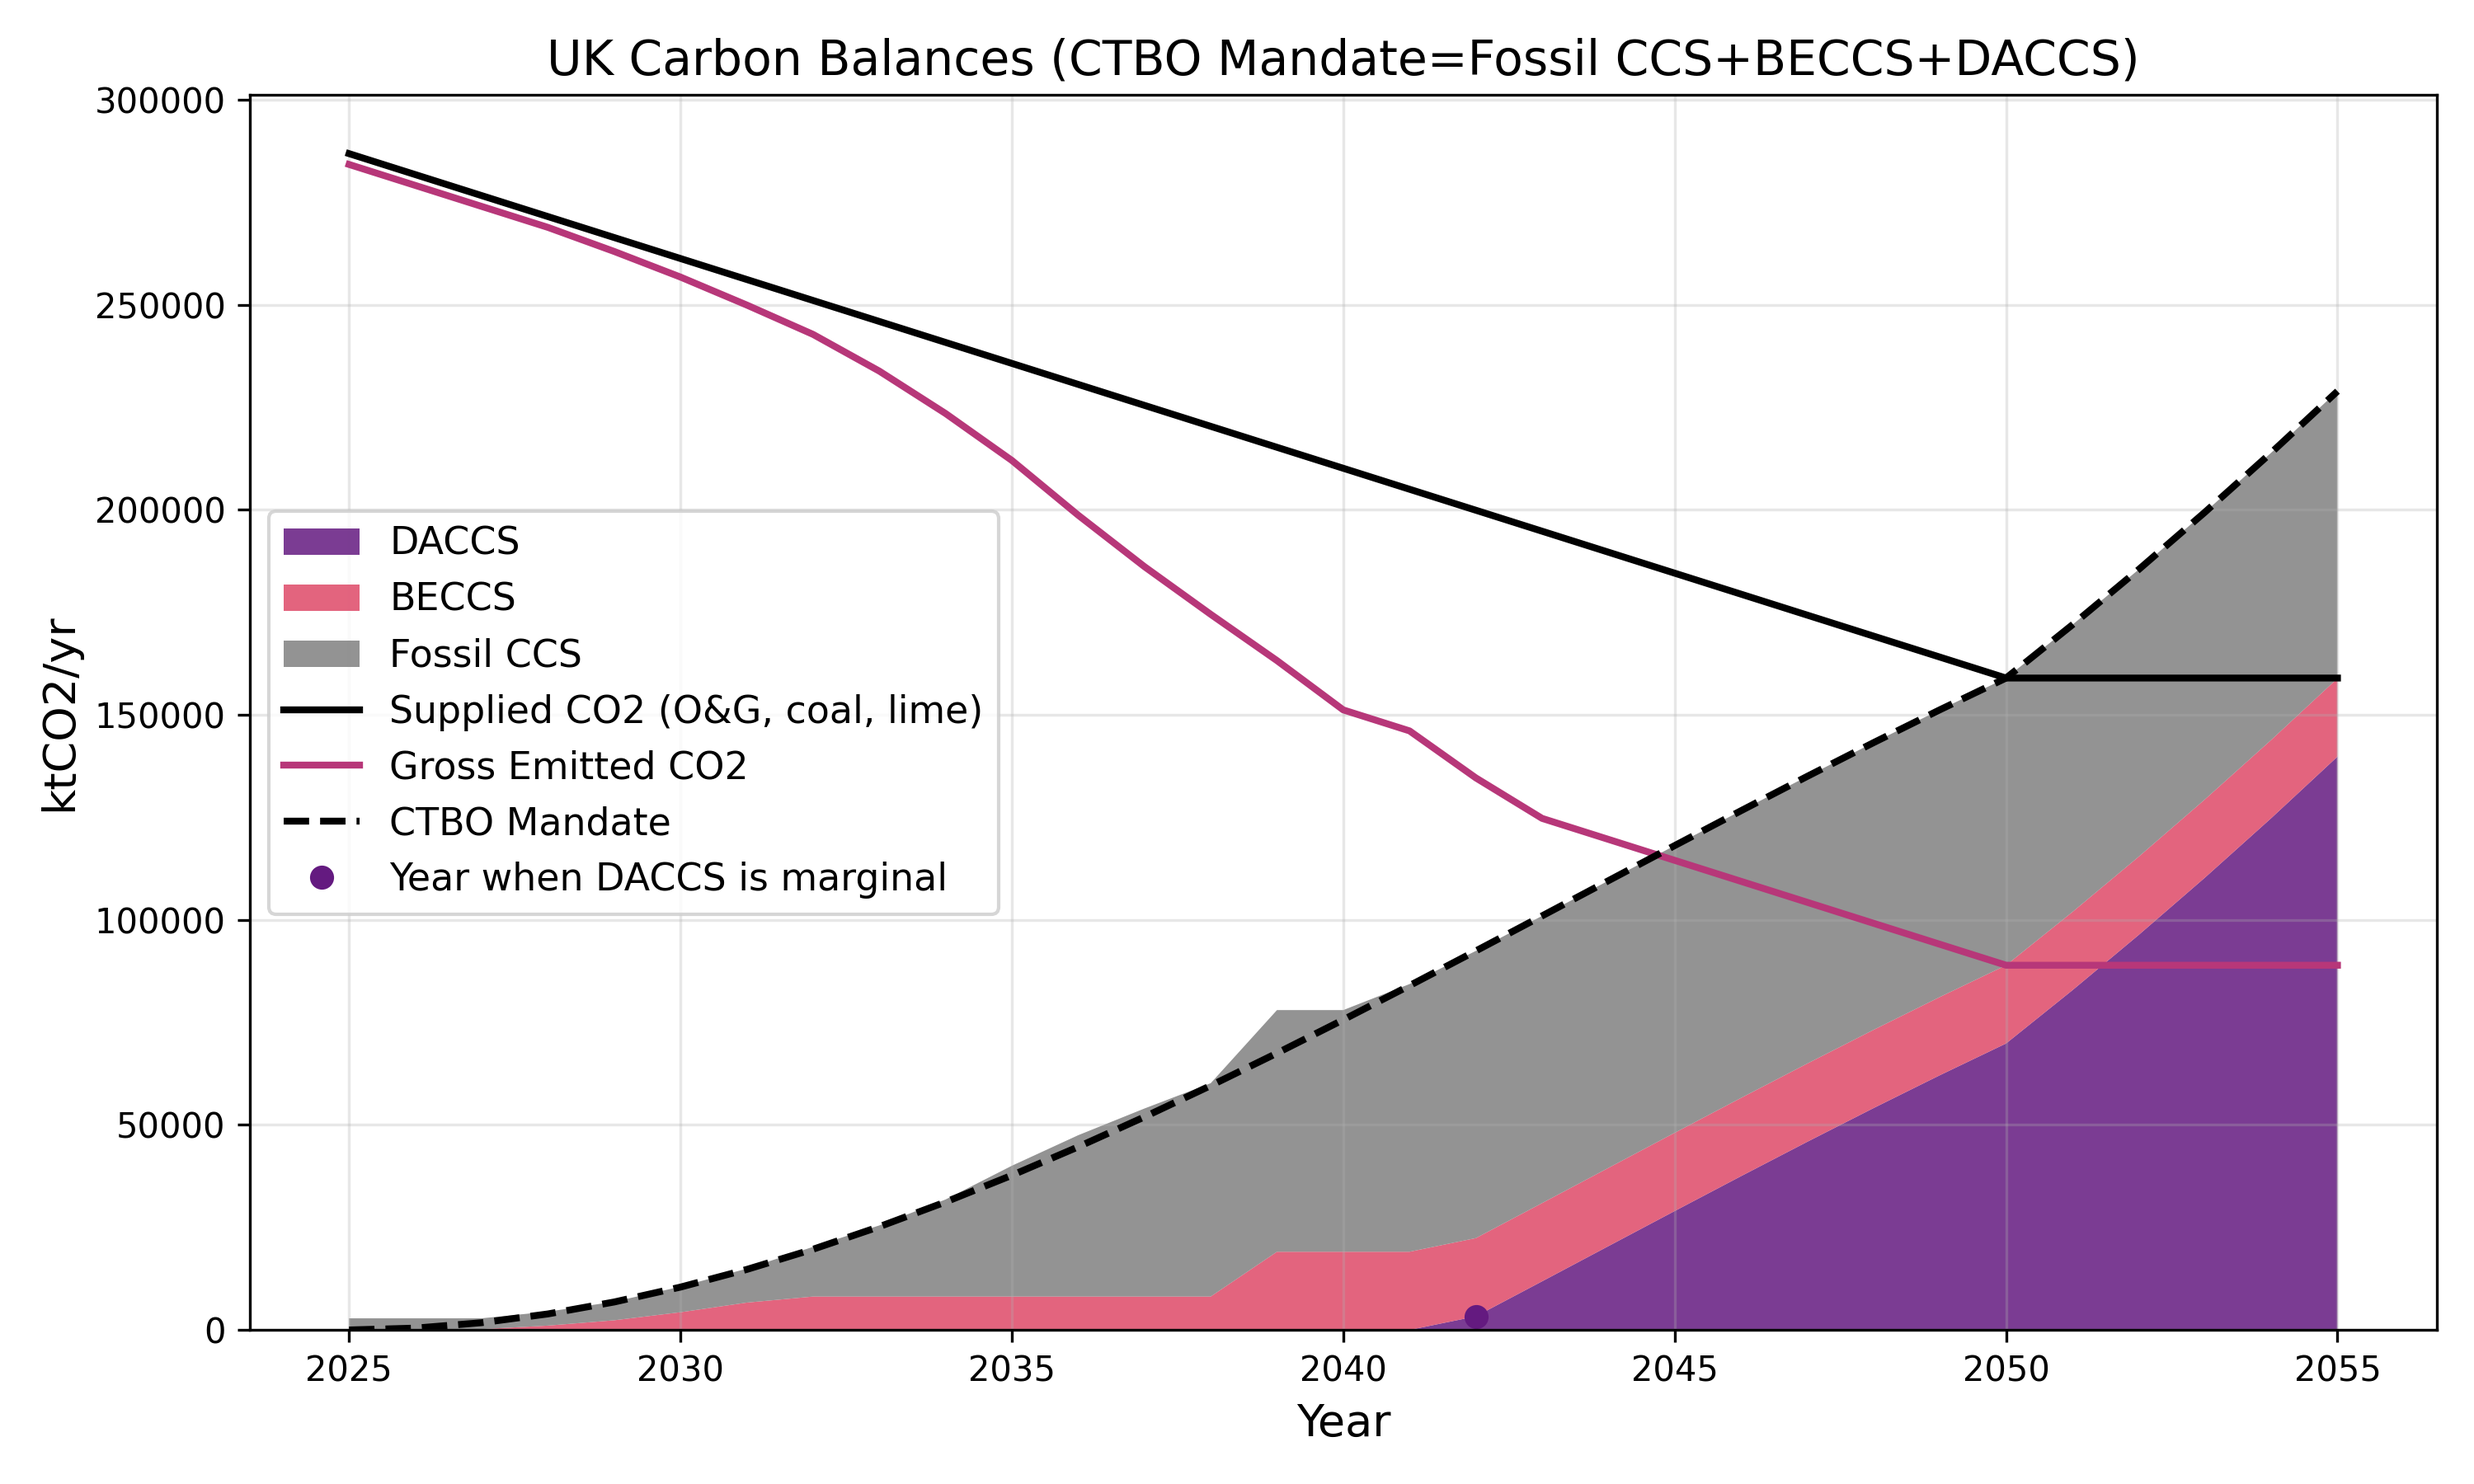
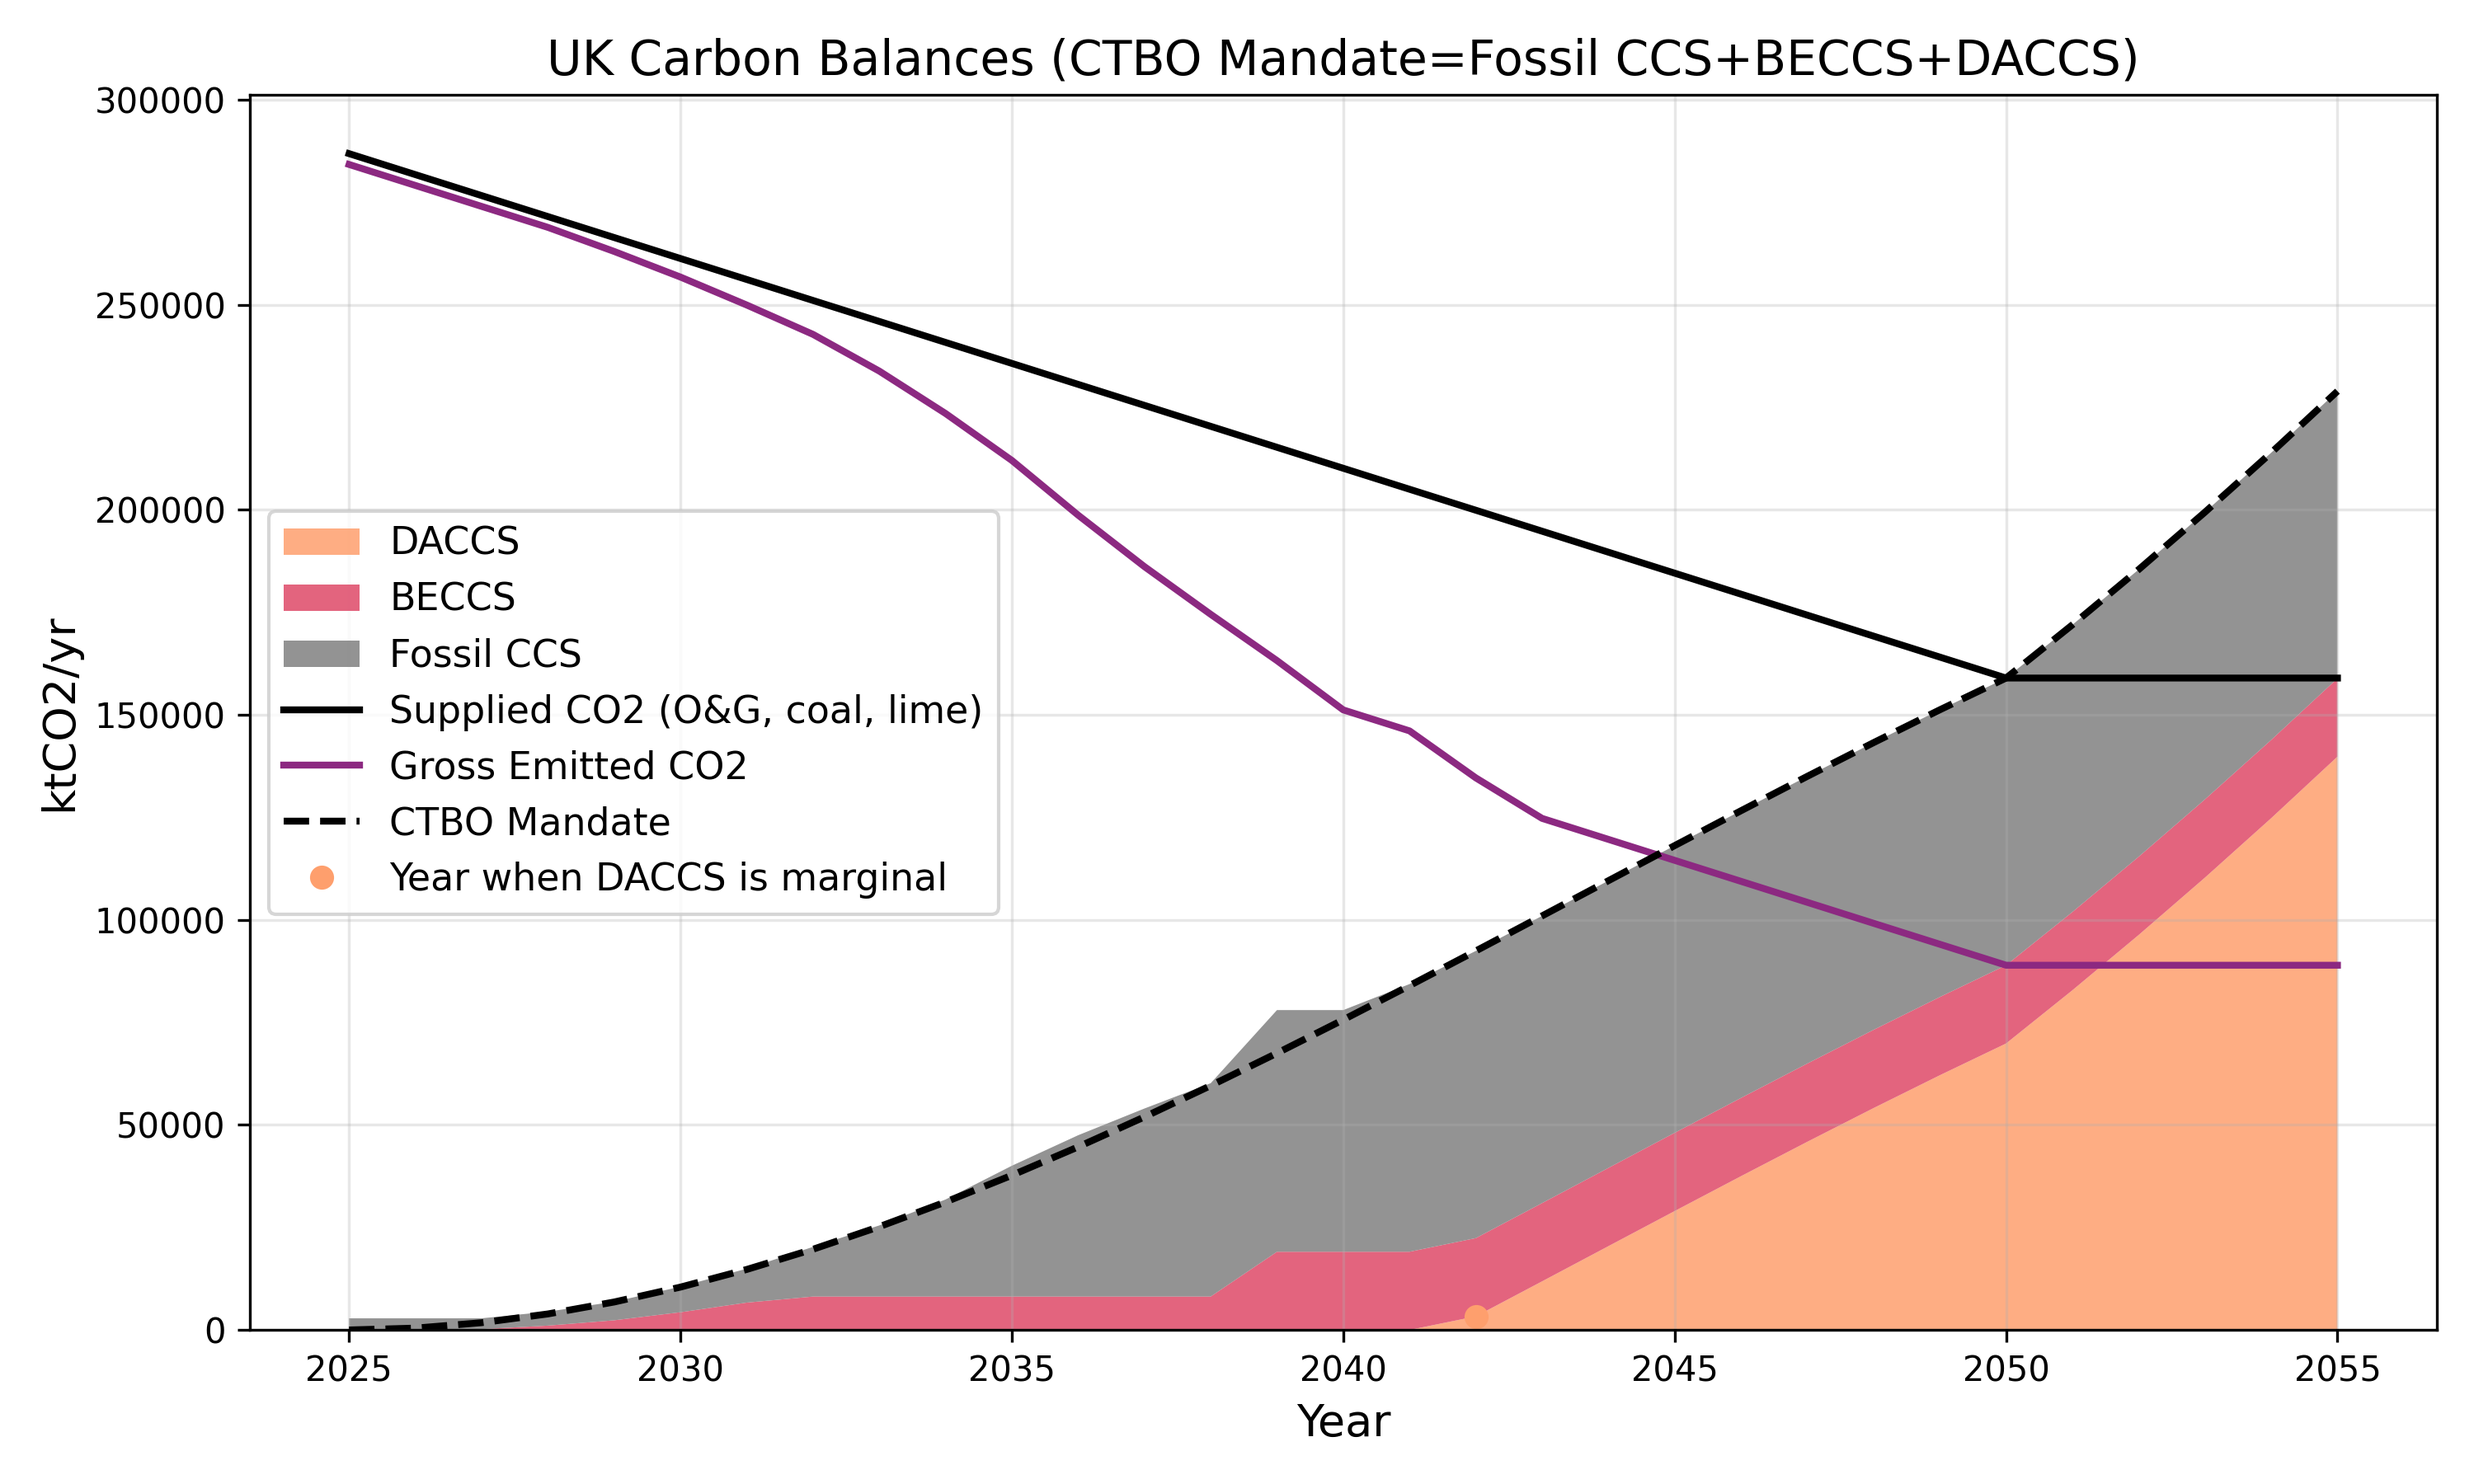
Plotting CB

diff --git a/plot_results.py b/plot_results.py
@@ -25,6 +25,9 @@ def load_results(debug=False):
         "BECCS_capacity_vec",
         "DACCS_capacity_vec",
         "CTBO_cost_lev_vec",
+        "supplied_CO2_vec",
+        "total_emissions_vec",
+        "ctbo_mandate_vec",
         "plant_npv_net",
         "plant_npv_gross",
         "plant_investment_year",
@@ -98,6 +101,52 @@ def plot_timeseries_by_scenario(combined_df, array_data, scenario_col="ETS_SCENA
     plt.ylabel(ylabel or 'Value', fontsize=13)
     plt.title(title or 'Time Series by ETS Scenario', fontsize=14)
     plt.legend(fontsize=11, title='ETS Scenario')
+    plt.grid(True, alpha=0.3)
+    plt.tight_layout()
+
+
+def plot_carbon_balance(combined_df, array_outcomes, start_year=2025, debug=False):
+    """Plot carbon balance time series (supplied, emissions, mandate) with uncertainty bands."""
+    if debug:
+        print("Plotting carbon balance")
+    
+    supplied = array_outcomes.get("supplied_CO2_vec")
+    emissions = array_outcomes.get("total_emissions_vec")
+    mandate = array_outcomes.get("ctbo_mandate_vec")
+    
+    if supplied is None or emissions is None or mandate is None:
+        print("Warning: Missing carbon balance data (supplied_CO2_vec, total_emissions_vec, ctbo_mandate_vec)")
+        return
+    
+    years = np.arange(start_year, start_year + supplied.shape[1])
+    
+    plt.figure(figsize=(10, 6))
+    
+    # Supplied CO2
+    median_sup = np.percentile(supplied, 50, axis=0)
+    p5_sup = np.percentile(supplied, 5, axis=0)
+    p95_sup = np.percentile(supplied, 95, axis=0)
+    plt.plot(years, median_sup, label='Supplied CO2', linewidth=2, color='black', linestyle='-')
+    plt.fill_between(years, p5_sup, p95_sup, alpha=0.15, color='black')
+    
+    # Total emissions
+    median_em = np.percentile(emissions, 50, axis=0)
+    p5_em = np.percentile(emissions, 5, axis=0)
+    p95_em = np.percentile(emissions, 95, axis=0)
+    plt.plot(years, median_em, label='Emissions', linewidth=2, color='#e74c3c', linestyle='--')
+    plt.fill_between(years, p5_em, p95_em, alpha=0.15, color='#e74c3c')
+    
+    # CTBO mandate
+    median_man = np.percentile(mandate, 50, axis=0)
+    p5_man = np.percentile(mandate, 5, axis=0)
+    p95_man = np.percentile(mandate, 95, axis=0)
+    plt.plot(years, median_man, label='CTBO Mandate', linewidth=2, color='#3498db', linestyle=':')
+    plt.fill_between(years, p5_man, p95_man, alpha=0.15, color='#3498db')
+    
+    plt.xlabel('Year', fontsize=13)
+    plt.ylabel('ktCO2/yr', fontsize=13)
+    plt.title('Carbon Balance: Supplied CO2, Emissions, and CTBO Mandate', fontsize=14)
+    plt.legend(fontsize=11)
     plt.grid(True, alpha=0.3)
     plt.tight_layout()
 
@@ -465,6 +514,9 @@ if __name__ == "__main__":
     
     # Plot 10: Fraction of positive NPV - fossil plants only
     plot_positive_npv_fraction_boxplot(combined_df, array_outcomes, plant_names, plant_filter="fossil", ETS_filter=None)
+    
+    # Plot 11: Carbon balance (supplied, emissions, mandate)
+    plot_carbon_balance(combined_df, array_outcomes)
     
     plt.show()
 

diff --git a/controller.py b/controller.py
@@ -1,4 +1,5 @@
 import numpy as np
+from numpy._core.numeric import False_
 import pandas as pd
 from ctbo_multiple import simulate_ctbo, load_data
 from ema_workbench import (
@@ -70,9 +71,9 @@ if __name__ == "__main__":
         ScalarOutcome("gas_increase_abs_2040", ScalarOutcome.MINIMIZE),
         ScalarOutcome("gas_increase_abs_2050", ScalarOutcome.MINIMIZE),
         ArrayOutcome("gas_increase_pct"),
-        ArrayOutcome("fCCS_capacity_vec"),
-        ArrayOutcome("BECCS_capacity_vec"),
-        ArrayOutcome("DACCS_capacity_vec"),
+        ArrayOutcome("supplied_CO2_vec"),
+        ArrayOutcome("total_emissions_vec"),
+        ArrayOutcome("ctbo_mandate_vec"),
         ArrayOutcome("CTBO_cost_lev_vec"),
         # Plant-level NPV outcomes (fixed order, NaN for non-invested plants)
         ArrayOutcome("plant_npv_net"),          # [kEUR] Net NPV per plant
@@ -85,7 +86,7 @@ if __name__ == "__main__":
         Constant("data", data),
         Constant("CTBO_ENABLED", True),
         Constant("CTBO_growth_factor", 0.4),
-        Constant("HALF", True), # NOTE, must be a constant otherwise EMA fails to save outcomes
+        Constant("HALF", False), # NOTE, must be a constant otherwise EMA fails to save outcomes
         Constant("USE_FOAK", False),
 
         Constant("VERBOSE", False),
@@ -105,8 +106,8 @@ if __name__ == "__main__":
         Constant("elc_eff", 0.33),
     ]
 
-    n_scenarios = 20
-    n_policies = 10
+    n_scenarios = 30
+    n_policies = 30
 
     results = perform_experiments(
         model, 
@@ -132,7 +133,7 @@ if __name__ == "__main__":
     
     # Save plant names reference (same for all runs, run once to get the list)
     # IMPORTANT: Must use same HALF setting as the experiments (line 88)
-    HALF_SETTING = True  # Must match Constant("HALF", ...) above
+    HALF_SETTING = False  # Must match Constant("HALF", ...) above
     test_result = simulate_ctbo(data, HALF=HALF_SETTING, VERBOSE=False, debug=False)
     plant_names = test_result['plant_names']
     pd.DataFrame({'plant_index': range(len(plant_names)), 'plant_name': plant_names}).to_csv(

diff --git a/ctbo_multiple.py b/ctbo_multiple.py
@@ -1123,16 +1123,16 @@ if __name__ == "__main__":
     plt.figure(figsize=(10, 6))
     plt.stackplot(years, DACCS_capacity_vec, BECCS_capacity_vec, fCCS_capacity_vec,
                   labels=['DACCS', 'BECCS', 'Fossil CCS'],
-                  colors=[magma(0.30), magma(0.60), 'gray'],
+                  colors=[magma(0.80), magma(0.60), 'gray'],
                   alpha=0.85)
     plt.plot(years, supplied_CO2_vec, label='Supplied CO2 (O&G, coal, lime)', linewidth=2, color='black')
-    plt.plot(years, total_emissions_vec, label='Gross Emitted CO2', linewidth=2, color=magma(0.50))
+    plt.plot(years, total_emissions_vec, label='Gross Emitted CO2', linewidth=2, color=magma(0.40))
     plt.plot(years, ctbo_mandate_vec, label='CTBO Mandate', linewidth=2, color='black', linestyle='--')
     
     if first_DACCS_year is not None:
         daccs_idx = np.where(years == first_DACCS_year)[0][0]
-        plt.plot(first_DACCS_year, DACCS_capacity_vec[daccs_idx], 'o', markersize=6, color=magma(0.30))
-        plt.plot([], [], 'o', markersize=6, color=magma(0.30), label='Year when DACCS is marginal')
+        plt.plot(first_DACCS_year, DACCS_capacity_vec[daccs_idx], 'o', markersize=6, color=magma(0.80))
+        plt.plot([], [], 'o', markersize=6, color=magma(0.80), label='Year when DACCS is marginal')
     
     plt.xlabel('Year', fontsize=13)
     plt.ylabel('ktCO2/yr', fontsize=13)
